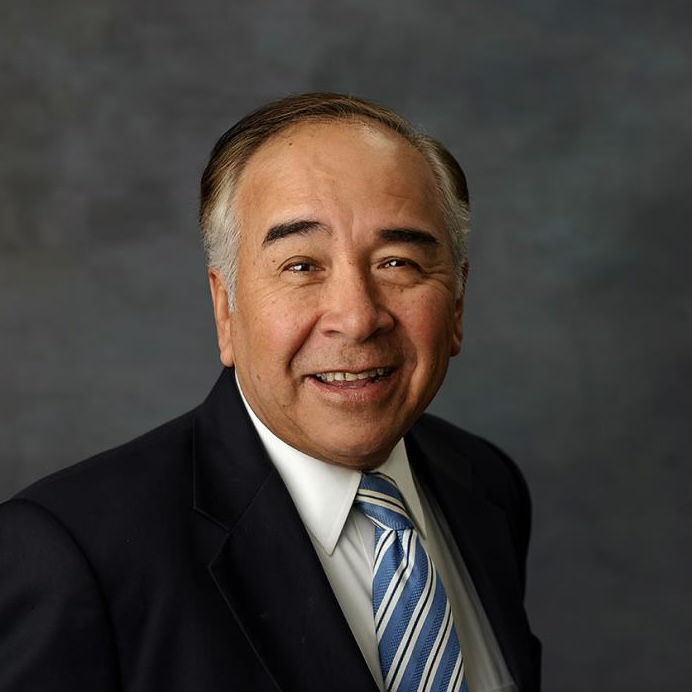
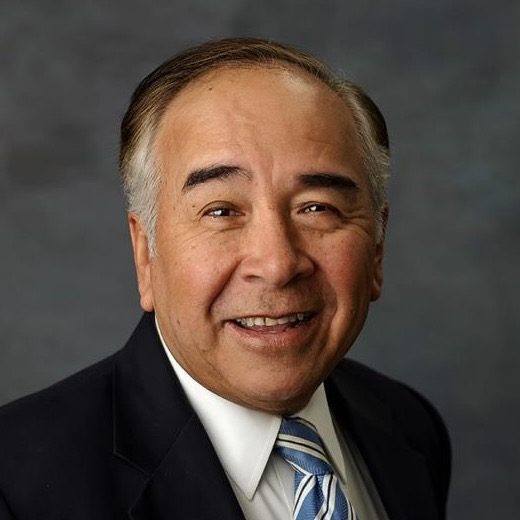
Add firefighters, Davies, and Randall endorsements with photo pass
- New endorsements: Orange County Firefighters (IAFF Local 3631 badge),
  Assemblywoman Laurie Davies, and Pastor John Randall
- Crop all endorser portraits to matching face-tight framing
- Update hero endorsement caption for the expanded list

Claude-Session: https://claude.ai/code/session_016QARDJGo9Kr1Fj6aJr4oqL

diff --git a/components/sections/Hero.tsx b/components/sections/Hero.tsx
@@ -120,14 +120,14 @@ export function Hero() {
               transition={{ duration: 0.6, delay: 0.85 }}
               className="mt-10 flex flex-col gap-3 sm:flex-row sm:gap-4"
             >
-              <Button href="#donate" variant="primary" size="lg">
+              <Button href="#about" variant="primary" size="lg">
                 <span className="flex items-center gap-2">
-                  Donate
+                  {HERO.cta2}
                   <ArrowRight className="h-4 w-4" />
                 </span>
               </Button>
-              <Button href="#about" variant="outline" size="lg">
-                {HERO.cta2}
+              <Button href="#donate" variant="outline" size="lg">
+                Donate
               </Button>
             </motion.div>
 
@@ -160,7 +160,7 @@ export function Hero() {
                   Endorsed by
                 </p>
                 <p className="mt-1 text-sm sm:text-[15px] font-medium text-white/85">
-                  Mayor Pro Tem · Former Mayor · Planning Chair
+                  Local leaders, firefighters &amp; Assemblywoman Davies
                 </p>
               </div>
             </motion.div>

diff --git a/lib/constants.ts b/lib/constants.ts
@@ -145,6 +145,24 @@ export const ENDORSEMENTS = {
       context: "City of San Clemente",
       image: "/images/endorsers/cosgrove.jpg",
     },
+    {
+      name: "Orange County Firefighters",
+      title: "IAFF Local 3631",
+      context: "Orange County",
+      image: "/images/endorsers/oc-firefighters.jpg",
+    },
+    {
+      name: "Laurie Davies",
+      title: "Assemblywoman, 74th District",
+      context: "California State Assembly",
+      image: "/images/endorsers/davies.jpg",
+    },
+    {
+      name: "John Randall",
+      title: "Senior Pastor, Calvary South Orange County",
+      context: "Orange County",
+      image: "/images/endorsers/randall.jpg",
+    },
   ],
 } as const;
 
